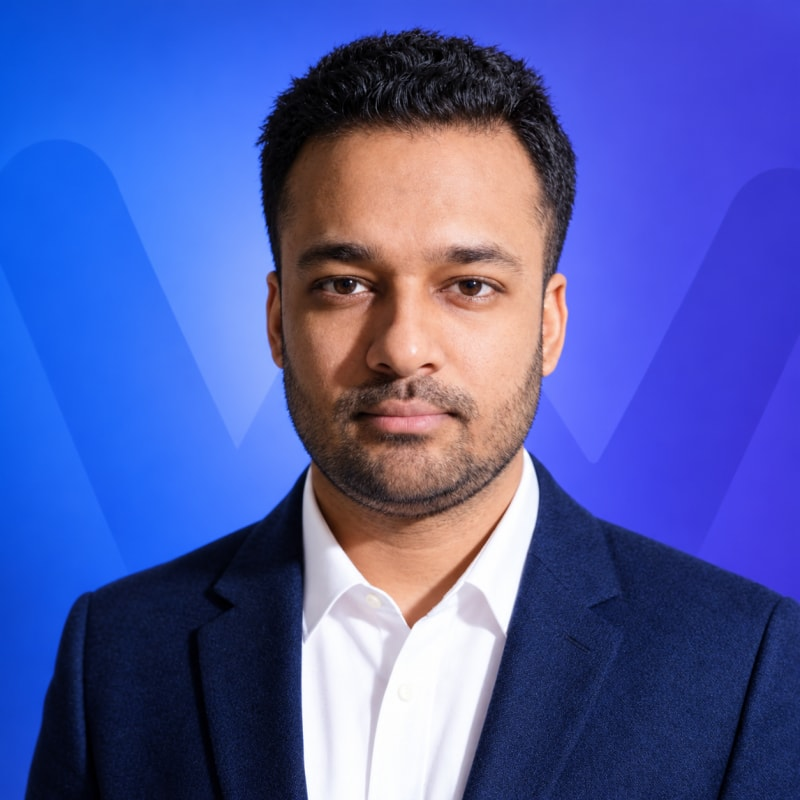
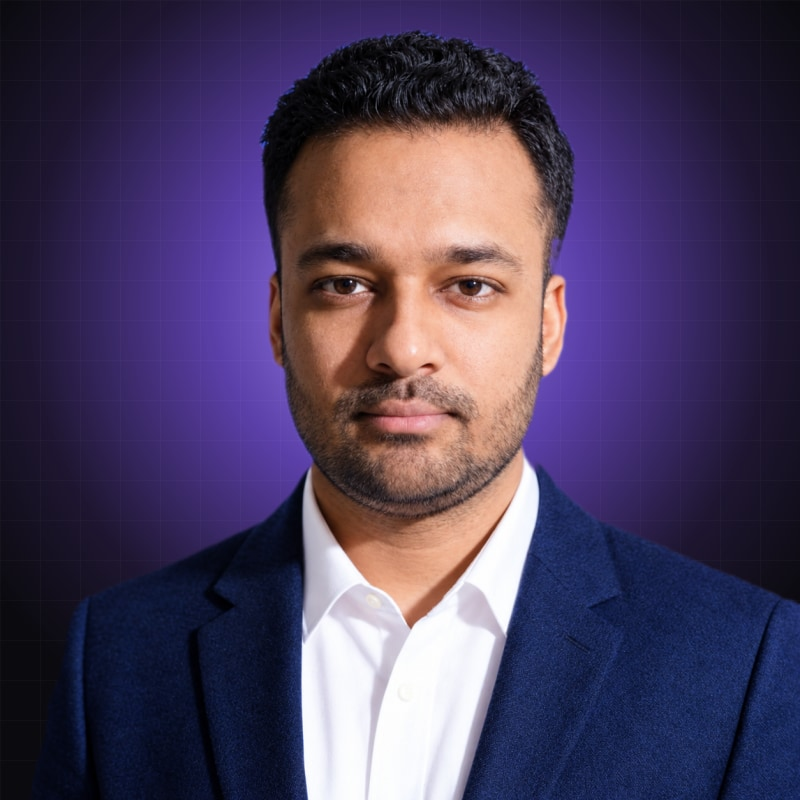
Pricing cards, agency band redesign, image-led path cards, brand-colour portrait, layout fixes
- Shared PriceCards (who it's for, price and billing, outcome, specific inclusions, one CTA,
  one recommended plan) on home, maintenance and agency pages
- Path cards and bento rows sized by photo ratio: equal heights, no cropping, no empty space
- Selected work as a 2 + 3 grid; portrait on brand violet; Summarize/Share in the blog rail
- Hero column gaps fixed (page-head override); case-study footer spacing; reveal classes renamed

diff --git a/src/styles/pages.css b/src/styles/pages.css
@@ -65,9 +65,20 @@
 a.tile:hover { border-color: var(--accent); color: var(--text); }
 .tile h2, .tile h3 { font-size: clamp(1.5rem, 2.2vw, 2rem); max-width: none; }
 .tile-top { display: flex; justify-content: space-between; align-items: baseline; }
-.paths { display: grid; grid-template-columns: repeat(2, minmax(0, 1fr)); gap: 1.25rem; }
-.bento { display: grid; grid-template-columns: repeat(12, minmax(0, 1fr)); gap: 1.25rem; }
-.bento > * { min-height: 300px; }
+.paths { display: flex; gap: 1.25rem; align-items: flex-start; }
+.paths > :nth-child(1) { flex: var(--a1) 1 0; min-width: 0; }
+.paths > :nth-child(2) { flex: var(--a2) 1 0; min-width: 0; }
+/* Path cards: the photo at its own proportions (columns are sized by each photo's ratio, so both cards are the same
+   height and nothing is cropped), graded toward the site's violet-black, with the copy over a dark fade at the bottom. */
+.path { position: relative; display: block; overflow: hidden; border: 1px solid var(--line); border-radius: 14px; color: var(--text); text-decoration: none; background: var(--bg-deep); isolation: isolate; }
+.path img { display: block; width: 100%; height: auto; filter: saturate(0.85) brightness(0.92); transition: transform 1.4s var(--ease), filter 0.8s ease; }
+.path::after { content: ""; position: absolute; inset: 0; z-index: 1; background: linear-gradient(180deg, rgb(11 10 15 / 0) 30%, rgb(11 10 15 / 0.65) 60%, rgb(11 10 15 / 0.96) 100%), linear-gradient(135deg, rgb(var(--accent-rgb) / 0.18), transparent 55%); pointer-events: none; }
+.path-cap { position: absolute; z-index: 2; left: 0; right: 0; bottom: 0; display: grid; gap: 0.6rem; padding: clamp(1.25rem, 2.6vw, 2.25rem); }
+.path-cap h2 { font-size: clamp(1.5rem, 2.4vw, 2.25rem); max-width: 22ch; }
+.path-cap .label span { display: inline-block; margin-left: 0.4rem; transition: transform 0.5s var(--ease); }
+.path:hover { border-color: var(--accent); }
+.path:hover img { transform: scale(1.03); filter: saturate(1) brightness(1); }
+.path:hover .label span { transform: translateX(6px); }
 .span-7 { grid-column: span 7; }
 .span-5 { grid-column: span 5; }
 .tile-photo { padding: 0; overflow: hidden; justify-content: end; }
@@ -105,7 +116,7 @@ a.tile:hover { border-color: var(--accent); color: var(--text); }
 /* Selected work: one large screenshot, the rest smaller */
 .mosaic { display: grid; grid-template-columns: repeat(6, minmax(0, 1fr)); gap: 1.25rem; }
 .mosaic > a { position: relative; display: block; grid-column: span 2; color: var(--text); }
-.mosaic > a:first-child { grid-column: span 4; }
+.mosaic > a:nth-child(-n+2) { grid-column: span 3; }
 .browser picture { display: block; }
 .mosaic .tag { position: absolute; left: 14px; bottom: 14px; padding: 0.35rem 0.65rem; background: var(--bg); border: 1px solid var(--line); border-radius: 6px; font-family: var(--mono); font-size: 0.8125rem; }
 .mosaic .tag b { color: var(--accent); font-weight: 400; }
@@ -197,9 +208,9 @@ a.tile:hover { border-color: var(--accent); color: var(--text); }
 
 /* Page hero shared by the agency and maintenance pages */
 .p-hero { padding: clamp(2.5rem, 5vw, 4.5rem) 0 var(--sec); }
-.p-grid { display: grid; grid-template-columns: 1fr 1.15fr; gap: 3.5rem; align-items: center; }
+.p-grid { display: grid; grid-template-columns: minmax(0, 1.1fr) minmax(0, 1fr); gap: clamp(3rem, 6vw, 6rem); align-items: center; }
 .p-copy { display: grid; gap: 1.4rem; justify-items: start; }
-.p-copy h1 { font-size: clamp(2.5rem, 4.4vw, 4.2rem); max-width: none; }
+.p-copy h1 { font-size: clamp(2.5rem, 3.7vw, 3.75rem); max-width: none; }
 .p-copy h1 .ln, .contact-side h1 .ln { display: block; }
 .p-copy .lead { max-width: none; }
 
@@ -326,7 +337,13 @@ img.tile-img { display: block; width: calc(100% + 3.5rem); max-width: none; heig
 .toc a:hover { color: var(--text); border-color: var(--accent); }
 .toc a.on { color: var(--text); border-color: var(--accent); }
 .rail { align-self: stretch; }
-.rail .side-card { position: sticky; top: 110px; display: grid; gap: 0.75rem; padding: 1.5rem; border: 1px solid var(--accent); border-radius: 12px; background: var(--surface); }
+.rail-stick { position: sticky; top: 110px; display: grid; gap: 1.75rem; }
+.rail .post-actions { flex-direction: column; justify-content: start; gap: 1.25rem; margin-top: 0; }
+.rail .post-actions > :last-child { text-align: left; }
+.rail .post-actions > :last-child .icons { justify-content: flex-start; }
+.rail .post-actions .copied { right: auto; left: 0; }
+.post-actions-m { display: none; margin-top: 2.5rem; }
+.rail .side-card { display: grid; gap: 0.75rem; padding: 1.5rem; border: 1px solid var(--accent); border-radius: 12px; background: var(--surface); }
 .rail b { font-family: var(--mono); font-weight: 400; font-size: 2rem; letter-spacing: -0.03em; }
 .article { max-width: 68ch; font-size: 1.125rem; line-height: 1.7; }
 .article > * + * { margin-top: 1.25rem; }
@@ -343,9 +360,12 @@ img.tile-img { display: block; width: calc(100% + 3.5rem); max-width: none; heig
   .post-cover { padding-bottom: 3rem; }
 .post-layout { grid-template-columns: minmax(0, 1fr); }
   .toc, .rail { display: none; }
+  .post-actions-m { display: block; }
 }
 @media (max-width: 900px) {
-  .h-grid, .paths, .about, .rv-item, .post-grid, .post-feature, .p-grid, .two-col, .cap-grid, .models, .contact-grid, .start-steps { grid-template-columns: minmax(0, 1fr); }
+  .paths { flex-direction: column; }
+  .paths > * { flex: none !important; width: 100%; }
+  .h-grid, .about, .rv-item, .post-grid, .post-feature, .p-grid, .two-col, .cap-grid, .models, .contact-grid, .start-steps { grid-template-columns: minmax(0, 1fr); }
   .h-collage { justify-self: stretch; max-width: 520px; }
   .about-photo { position: static; max-width: 360px; }
   .trust-nums { grid-template-columns: repeat(2, minmax(0, 1fr)); row-gap: 1.75rem; }
@@ -354,7 +374,7 @@ img.tile-img { display: block; width: calc(100% + 3.5rem); max-width: none; heig
   .eyebrow { font-size: 0.6875rem; letter-spacing: 0.05em; }
   .span-7, .span-5 { grid-column: 1 / -1; }
   .bento > * { min-height: 0; }
-  .mosaic > a, .mosaic > a:first-child { grid-column: 1 / -1; grid-row: auto; }
+  .mosaic > a, .mosaic > a:nth-child(-n+2) { grid-column: 1 / -1; grid-row: auto; }
   .mosaic > a:nth-child(2) img { height: auto; aspect-ratio: 16 / 10; }
   .mosaic > a:nth-child(2) .browser { display: block; }
   .pipeline { grid-template-columns: repeat(2, minmax(0, 1fr)); row-gap: 1.75rem; }
@@ -432,7 +452,8 @@ html:has(.mnav[open]) .chat, html:has(.mnav[open]) .to-top { display: none; }
   .rv-nav button:hover { border-color: var(--line-2); }
   .kit > li:hover { border-color: var(--line); }
   .service-list > li:hover { background: none; }
-  .service-list > li:hover > *, a.tile:hover, a.tile:hover img.tile-img { transform: none; translate: none; }
+  .service-list > li:hover > *, a.tile:hover, a.tile:hover img.tile-img, .path:hover img { transform: none; translate: none; }
+  .path:hover { border-color: var(--line); }
   .service-list > li:hover::after { transform: scaleX(0); }
   .picks a:hover { border-color: var(--line); background: transparent; }
   .foot-links a:hover { transform: none; }
@@ -484,3 +505,36 @@ html:has(.mnav[open]) .chat, html:has(.mnav[open]) .to-top { display: none; }
 .sources ol { list-style: decimal; padding-left: 1.4rem; display: grid; gap: 0.4rem; font-size: 0.9375rem; color: var(--muted); }
 .article a[target="_blank"]::after { content: ' 97'; font-size: 0.8em; }
 @media (max-width: 700px) { .post-stats dl > div + div { border-left: 0; padding-left: 0; border-top: 1px solid var(--line); } }
+
+/* Phones: the path card copy sits under its photo so the photo stays fully visible */
+@media (max-width: 640px) {
+  .path-cap { position: relative; }
+  .path::after { background: linear-gradient(135deg, rgb(var(--accent-rgb) / 0.14), transparent 55%); }
+}
+
+/* Agency band: violet glow on the surface, copy left, the four steps as connected cards right */
+.agency-band { position: relative; overflow: hidden; background: var(--surface); border-top: 1px solid var(--line); border-bottom: 1px solid var(--line); isolation: isolate; }
+.agency-band::before { content: ""; position: absolute; z-index: -1; width: 70vw; height: 70vw; max-width: 900px; max-height: 900px; right: -15%; top: 50%; translate: 0 -50%; border-radius: 50%; background: radial-gradient(circle, rgb(var(--accent-rgb) / 0.22), transparent 62%); }
+.agency-band::after { content: ""; position: absolute; z-index: -1; inset: 0; background-image: linear-gradient(rgb(255 255 255 / 0.025) 1px, transparent 1px), linear-gradient(90deg, rgb(255 255 255 / 0.025) 1px, transparent 1px); background-size: 48px 48px; mask-image: linear-gradient(90deg, transparent, #000 60%); }
+.agency-grid { display: grid; grid-template-columns: minmax(0, 1fr) minmax(0, 1fr); gap: clamp(3rem, 6vw, 6rem); align-items: center; }
+.agency-copy { display: grid; gap: 1.25rem; justify-items: start; }
+.agency-copy h2 { font-size: clamp(2rem, 4vw, 3.25rem); }
+.agency-copy > p.mut { max-width: 46ch; }
+.flow-steps { position: relative; display: grid; gap: 0.85rem; }
+.flow-steps::before { content: ""; position: absolute; left: 47px; top: 2rem; bottom: 2rem; width: 1px; background: linear-gradient(var(--accent), rgb(var(--accent-rgb) / 0.1)); }
+.flow-steps li { position: relative; display: grid; grid-template-columns: 2rem 44px minmax(0, 1fr); gap: 1rem; align-items: center; padding: 1.1rem 1.25rem; border: 1px solid var(--line); border-radius: 14px; background: rgb(11 10 15 / 0.65); backdrop-filter: blur(8px); transition: border-color 0.3s ease, translate 0.6s var(--ease); }
+.flow-steps li:hover { border-color: rgb(var(--accent-rgb) / 0.6); translate: 6px 0; }
+.fs-num { font-family: var(--mono); font-size: 0.8125rem; color: var(--muted); }
+.fs-icon { display: grid; place-items: center; width: 44px; height: 44px; border-radius: 50%; border: 1px solid var(--accent); background: var(--bg); color: var(--accent); }
+.fs-icon svg { fill: none; stroke: currentColor; stroke-width: 1.6; stroke-linecap: round; stroke-linejoin: round; }
+.flow-steps strong { display: block; font-size: 1.0625rem; margin-bottom: 0.2rem; }
+.flow-steps p { font-size: 0.9375rem; }
+@media (max-width: 900px) { .agency-grid { grid-template-columns: minmax(0, 1fr); } }
+@media (hover: none) { .flow-steps li:hover { translate: none; border-color: var(--line); } }
+
+/* Service bento: each row is a flex line where every tile grows by its photo's ratio, so the photos in a row are the
+   same height and nothing is cropped or left empty. */
+.bento { display: grid; gap: 1.25rem; }
+.bento-row { display: flex; gap: 1.25rem; align-items: stretch; }
+.bento-row > .tile { flex: var(--a, 1) 1 0; min-width: 0; }
+@media (max-width: 900px) { .bento-row { flex-direction: column; } .bento-row > .tile { flex: none; } }

diff --git a/src/styles/motion.css b/src/styles/motion.css
@@ -64,15 +64,15 @@ a, button, summary, label, [role="tab"], a *, button *, summary * { cursor: poin
 @keyframes slide-rev { to { transform: translateX(calc(-50% - 0.625rem)); } }
 
 /* Reveal system: one easing (--ease) and one rhythm for the whole site. Only opacity, transform and clip-path move,
-   so nothing changes size and nothing around it shifts. The script tags elements below the fold (.rv, .rv-img, .sw)
+   so nothing changes size and nothing around it shifts. The script tags elements below the fold (.rvl, .rvl-img, .sw)
    and adds .in when they scroll into view; siblings get a stagger through --d. Without the script nothing is hidden. */
-.js .rv { opacity: 0; transform: translateY(32px); transition: opacity 0.9s var(--ease), transform 1.2s var(--ease); transition-delay: var(--d, 0s); }
-.js .rv.in { opacity: 1; transform: none; }
+.js .rvl { opacity: 0; transform: translateY(32px); transition: opacity 0.9s var(--ease), transform 1.2s var(--ease); transition-delay: var(--d, 0s); }
+.js .rvl.in { opacity: 1; transform: none; }
 /* Images open like a curtain from the bottom while settling from a slight zoom */
-.js .rv-img { display: block; clip-path: inset(100% 0 0 0); transition: clip-path 1.3s var(--ease); transition-delay: var(--d, 0s); }
-.js .rv-img img { transform: scale(1.14); transition: transform 1.8s var(--ease); transition-delay: var(--d, 0s); }
-.js .rv-img.in { clip-path: inset(0 0 0 0); }
-.js .rv-img.in img { transform: none; }
+.js .rvl-img { display: block; clip-path: inset(100% 0 0 0); transition: clip-path 1.3s var(--ease); transition-delay: var(--d, 0s); }
+.js .rvl-img img { transform: scale(1.14); transition: transform 1.8s var(--ease); transition-delay: var(--d, 0s); }
+.js .rvl-img.in { clip-path: inset(0 0 0 0); }
+.js .rvl-img.in img { transform: none; }
 /* Section headings: each word rises out of a mask, one after another */
 .sw { display: inline-block; overflow: hidden; vertical-align: top; padding-bottom: 0.1em; margin-bottom: -0.1em; }
 .sw > span { display: inline-block; transform: translateY(110%); transition: transform 1.1s var(--ease); transition-delay: calc(var(--i) * 60ms); }

diff --git a/src/styles/global.css b/src/styles/global.css
@@ -347,8 +347,8 @@ body::after { content: ""; position: fixed; inset: 0; z-index: 49; pointer-event
 .page-head .lead { max-width: none; }
 /* Service pages: copy on the left, an animated picture of the service on the right */
 .svc-hero { position: relative; isolation: isolate; }
-.svc-grid { display: grid; grid-template-columns: 1.15fr 1fr; gap: 4rem; align-items: center; }
-.page-head .svc-grid { justify-items: stretch; }
+.svc-grid { display: grid; grid-template-columns: minmax(0, 1.1fr) minmax(0, 1fr); gap: clamp(3rem, 6vw, 6rem); align-items: center; }
+.page-head .svc-grid { justify-items: stretch; gap: clamp(3rem, 6vw, 6rem); }
 .svc-copy { display: grid; gap: 1.5rem; justify-items: start; min-width: 0; }
 .svc-copy h1 { font-size: clamp(2.2rem, 3.9vw, 3.4rem); line-height: 1.05; }
 @media (min-width: 861px) { .svc-copy h1 .hl { display: block; white-space: nowrap; } }
@@ -506,7 +506,7 @@ body::after { content: ""; position: fixed; inset: 0; z-index: 49; pointer-event
 .case-quote p { font-size: 1.3125rem; line-height: 1.45; }
 .case-quote footer { color: var(--muted); font-size: 0.9375rem; }
 .next a:first-child, .case-quote footer a { display: inline-block; padding: 0.6rem 0; }
-.next { margin-top: 4rem; display: flex; justify-content: space-between; align-items: center; gap: 1rem; flex-wrap: wrap; border-top: 1px solid var(--line); padding-top: 2rem; }
+.next { margin: 4rem 0 clamp(3.5rem, 7vw, 6rem); display: flex; justify-content: space-between; align-items: center; gap: 1rem; flex-wrap: wrap; border-top: 1px solid var(--line); padding-top: 2rem; }
 
 @media (max-width: 860px) {
   section { padding: 4.5rem 0; }

diff --git a/src/services.js b/src/services.js
@@ -82,7 +82,7 @@ export const services = [
     description:
       'Custom web development for startups: SaaS products, dashboards and fast marketing sites built from scratch when WordPress is the wrong tool.',
     h1: 'Custom web development for real products.',
-    h1Lines: ['Custom web development', 'for real products.'],
+    h1Lines: ['Custom web', 'development for', 'real products.'],
     lead: 'Web products built from scratch: the sign-in, the data, the dashboard and the site that sells it. Wrkbase, my own SaaS platform, is the proof.',
     row: 'Web products built from scratch when WordPress is the wrong tool. Wrkbase, my own SaaS platform and its website, is the example.',
     chips: ['SaaS platforms', 'Dashboards', 'Marketing sites', 'Free tools', 'APIs'],

diff --git a/scripts/photos/CREDITS.md b/scripts/photos/CREDITS.md
@@ -28,7 +28,7 @@ Photos from Unsplash under the Unsplash License (free for commercial use, no att
 - developer-laptop-desk.jpg: https://unsplash.com/photos/vpOeXr5wmR4
 - analytics-report.jpg: https://unsplash.com/photos/shr_Xn8S8QU
 - two-people-reviewing-laptop.jpg: https://unsplash.com/photos/g1Kr4Ozfoac
-- shop-owner-with-tablet.jpg: https://unsplash.com/photos/PqZNF90tfyU
-- website-designs-on-monitor.jpg: https://unsplash.com/photos/pd-Hekt6naQ
 - agency-team-planning.jpg: https://unsplash.com/photos/Imk2h0pyOvo
 - business-owner-at-laptop.jpg: https://unsplash.com/photos/OfuwkI80iPY
+- restaurant-owner-with-menu.jpg: https://unsplash.com/photos/UaoPrOYIRfc
+- developer-at-window-laptop.jpg: https://unsplash.com/photos/E5llEM1xtWA
